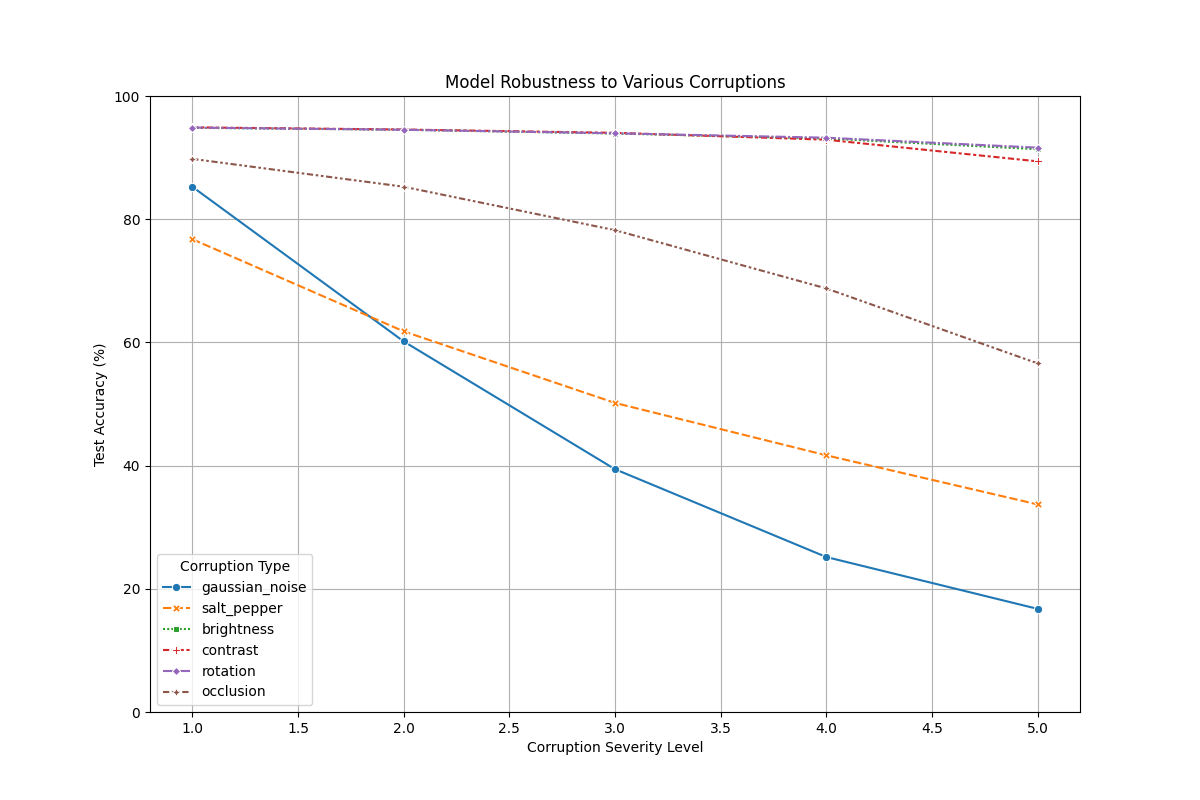
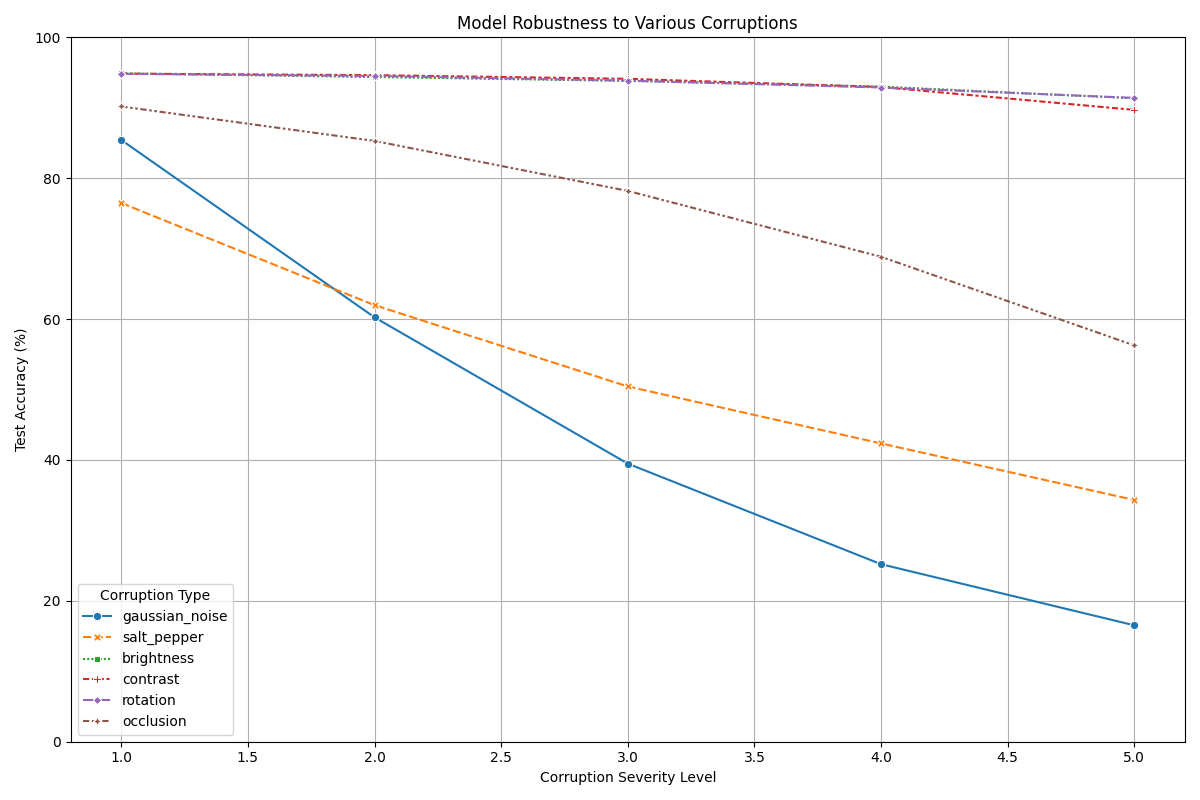
Test performance fixes double normalization

diff --git a/test_robustness.py b/test_robustness.py
@@ -17,51 +17,69 @@ from src.robustness import get_robustness_transform
 from src.data_loader import get_gtsrb_datasets, get_mean_std, create_dataloaders
 
 
+# ------------------------------------------------------------
+# PERFORMANCE TESTS
+# ------------------------------------------------------------
 def run_performance_tests(model, device, args):
-    """Measures inference latency, throughput, and GPU memory usage."""
+    """Measures inference latency, throughput, and GPU memory usage, and saves results."""
     print("\n--- Running Performance Tests ---")
     model.eval()
+    results = {}
 
-    # --- Latency and Throughput ---
     dummy_input = torch.randn(args.batch_size, 3, 32, 32, device=device)
 
-    # Warm-up GPU
+    # Warm-up
     for _ in range(10):
         _ = model(dummy_input)
 
-    # Measure (synchronize CUDA for accurate timing)
     if device.type == 'cuda':
         torch.cuda.synchronize()
     start_time = time.time()
+
     with torch.no_grad():
         for _ in range(100):
             _ = model(dummy_input)
+
     if device.type == 'cuda':
         torch.cuda.synchronize()
     end_time = time.time()
 
     total_time = end_time - start_time
     total_images = 100 * args.batch_size
-    images_per_second = total_images / total_time
-    latency_per_image = (total_time / 100) / args.batch_size * 1000  # in ms
+    results['throughput_images_per_sec'] = total_images / total_time
+    results['latency_ms_per_image'] = (total_time / 100) / args.batch_size * 1000
 
-    print(f"Inference Throughput: {images_per_second:.2f} images/sec")
-    print(f"Inference Latency: {latency_per_image:.4f} ms/image")
+    print(f"Inference Throughput: {results['throughput_images_per_sec']:.2f} images/sec")
+    print(f"Inference Latency: {results['latency_ms_per_image']:.4f} ms/image")
 
-    # --- GPU Memory Usage ---
+    # --- GPU Memory ---
     if device.type == 'cuda':
+        torch.cuda.empty_cache()
         torch.cuda.reset_peak_memory_stats(device)
         with torch.no_grad():
             _ = model(dummy_input)
         torch.cuda.synchronize()
-        peak_memory = torch.cuda.max_memory_allocated(device) / (1024 * 1024)  # in MB
+        peak_memory = torch.cuda.max_memory_allocated(device) / (1024 * 1024)
+        results['peak_gpu_memory_mb'] = peak_memory
         print(f"Peak GPU Memory Usage: {peak_memory:.2f} MB")
 
-    # --- Model Size ---
-    model_size = os.path.getsize(args.model_path) / 1024 / 1024  # in MB
+    # --- Model size ---
+    model_size = os.path.getsize(args.model_path) / 1024 / 1024
+    results['model_size_mb'] = model_size
     print(f"Model Size on Disk: {model_size:.2f} MB")
 
+    # --- Save ---
+    save_path = os.path.join(args.save_dir, 'performance_results.json')
+    with open(save_path, 'w', encoding='utf-8') as f:
+        json.dump(results, f, indent=4)
+    print(f"Performance results saved to {save_path}")
 
+    return results
+
+
+# ------------------------------------------------------------
+# ROBUSTNESS TESTS
+# ------------------------------------------------------------
 def run_robustness_tests(model, device, args):
     """Evaluates the model on various corruptions and severities."""
     print("\n--- Running Robustness Tests ---")
@@ -72,10 +90,12 @@ def run_robustness_tests(model, device, args):
         test_dataset = datasets.GTSRB(root='./data', split='test', download=True)
         _, train_dataset_no_norm = get_gtsrb_datasets()
         mean, std = get_mean_std(train_dataset_no_norm)
+        needs_normalization = True
     else:
         print("Using project split test set for robustness evaluation.")
         _, _, test_loader_split, _, mean, std = create_dataloaders(batch_size=args.batch_size)
-        test_dataset = test_loader_split.dataset.dataset  # underlying dataset
+        test_dataset = test_loader_split.dataset.dataset  # The base dataset (already normalized)
+        needs_normalization = False  # Avoid double normalization
 
     corruption_types = ['gaussian_noise', 'salt_pepper', 'brightness',
                         'contrast', 'rotation', 'occlusion']
@@ -86,16 +106,22 @@ def run_robustness_tests(model, device, args):
         for severity in range(1, 6):
             corruption_transform = get_robustness_transform(corruption, severity)
 
-            full_transform = transforms.Compose([
-                corruption_transform,
-                transforms.Normalize(mean, std)
-            ])
+            # Apply normalization only if needed
+            if needs_normalization:
+                full_transform = transforms.Compose([
+                    corruption_transform,
+                    transforms.Normalize(mean, std)
+                ])
+            else:
+                full_transform = corruption_transform
+
             test_dataset.transform = full_transform
-            test_loader = DataLoader(test_dataset, batch_size=args.batch_size, shuffle=False)
+            test_loader = DataLoader(test_dataset, batch_size=args.batch_size, shuffle=False, num_workers=2)
 
             correct, total = 0, 0
-            with torch.no_grad():
-                for inputs, labels in tqdm(test_loader, desc=f"{corruption} sev {severity}", leave=False):
+            model.eval()  # ensure eval mode for each corruption test
+            with torch.no_grad():  # disable gradient computation
+                for inputs, labels in tqdm(test_loader, desc=f"{corruption:<12} sev {severity}", leave=False):
                     inputs, labels = inputs.to(device), labels.to(device)
                     outputs = model(inputs)
                     _, predicted = torch.max(outputs.data, 1)
@@ -104,12 +130,14 @@ def run_robustness_tests(model, device, args):
 
             acc = 100 * correct / total
             results[corruption].append(acc)
-            print(f"Corruption: {corruption}, Severity: {severity}, Accuracy: {acc:.2f}%")
+            print(f"Corruption: {corruption:>12}, Severity: {severity}, Accuracy: {acc:.2f}%")
 
     return results
 
 
-
+# ------------------------------------------------------------
+# PLOTTING
+# ------------------------------------------------------------
 def plot_robustness_results(results, save_dir):
     """Plots and saves the robustness results."""
     df = pd.DataFrame(results, index=range(1, 6))
@@ -123,15 +151,20 @@ def plot_robustness_results(results, save_dir):
     plt.grid(True)
     plt.ylim(0, 100)
     plt.legend(title='Corruption Type')
+    plt.tight_layout()
 
     save_path = os.path.join(save_dir, 'robustness_curves.png')
     plt.savefig(save_path)
     plt.close()
-    print(f"\nRobustness plot saved to {save_path}")
+    print(f"Robustness plot saved to {save_path}")
 
 
+# ------------------------------------------------------------
+# MAIN
+# ------------------------------------------------------------
 def main(args):
     """Main function to orchestrate robustness and performance tests."""
+    torch.manual_seed(42)
     device = torch.device("cuda" if torch.cuda.is_available() else "cpu")
     print(f"Using device: {device}")
     os.makedirs(args.save_dir, exist_ok=True)
@@ -142,18 +175,17 @@ def main(args):
     model.eval()
     print(f"Model loaded from {args.model_path}")
 
-    # Run tests
     with torch.no_grad():
         robustness_results = run_robustness_tests(model, device, args)
-        run_performance_tests(model, device, args)
+        performance_results = run_performance_tests(model, device, args)
 
-    # Save results
-    results_path = os.path.join(args.save_dir, 'robustness_results.json')
+    # Combine and save results
+    all_results = {"robustness": robustness_results, "performance": performance_results}
+    results_path = os.path.join(args.save_dir, 'all_test_results.json')
     with open(results_path, 'w', encoding='utf-8') as f:
-        json.dump(robustness_results, f, indent=4)
-    print(f"Robustness results saved to {results_path}")
+        json.dump(all_results, f, indent=4)
+    print(f"All test results saved to {results_path}")
 
-    # Plot
     plot_robustness_results(robustness_results, args.save_dir)
 
 
